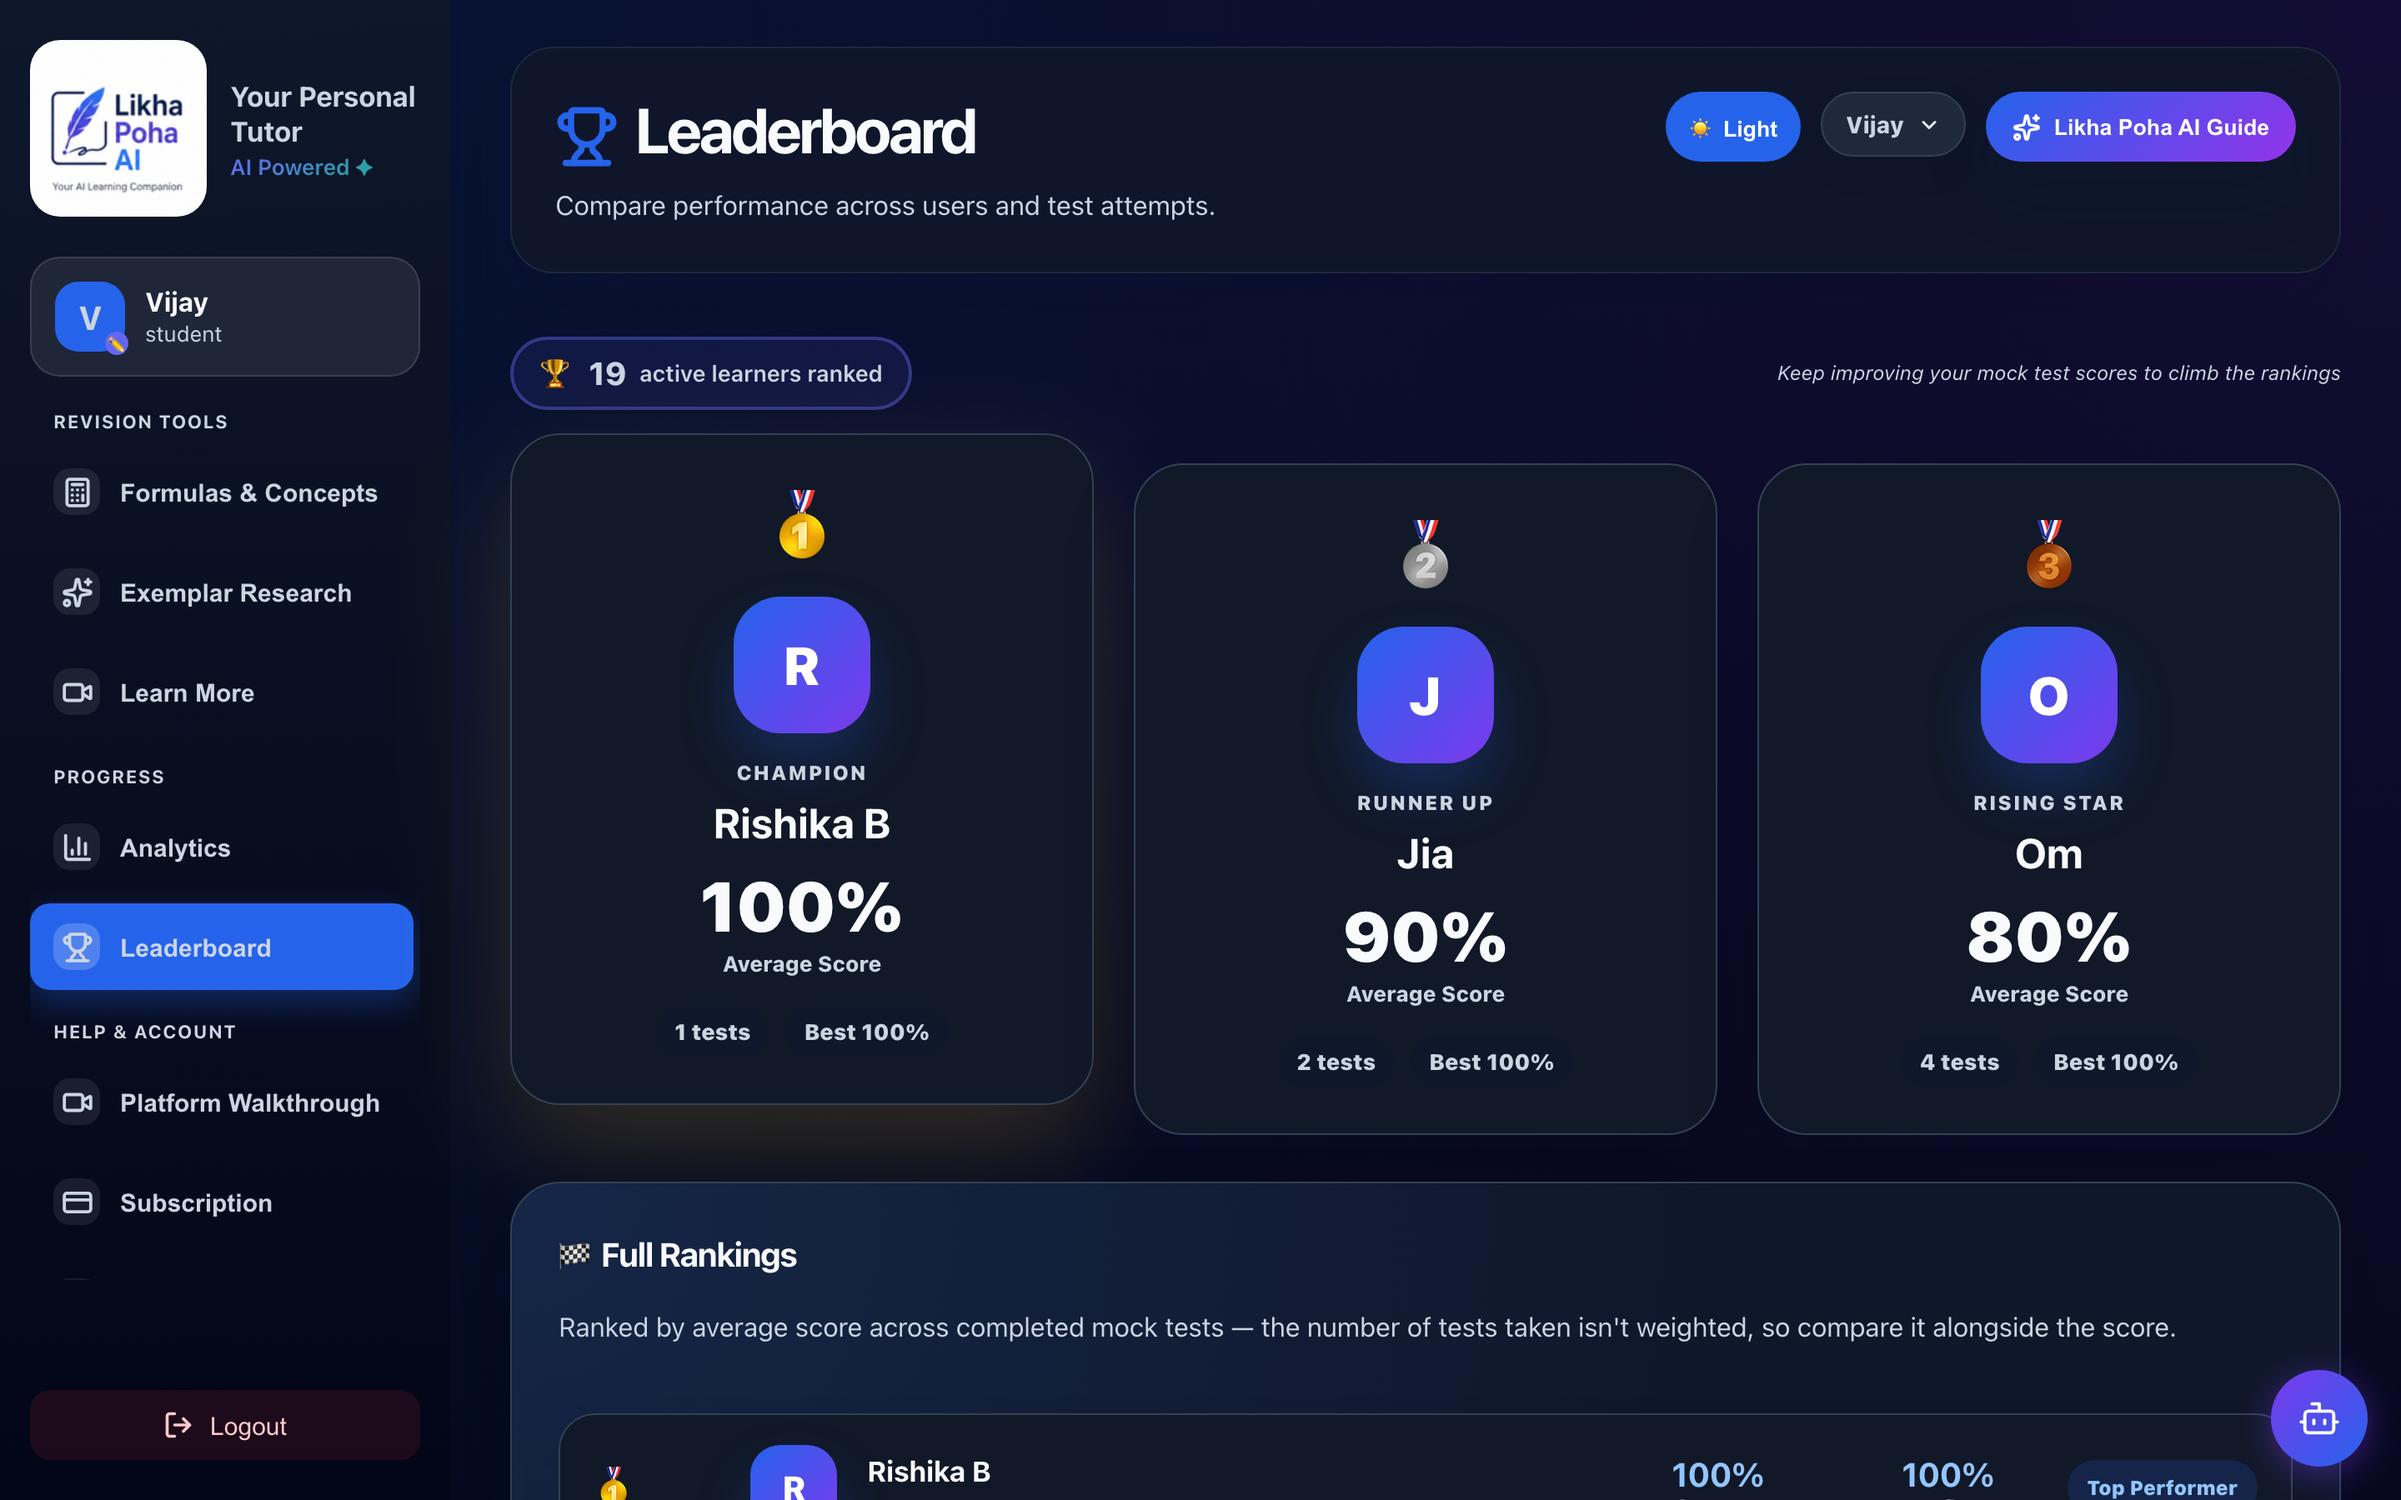
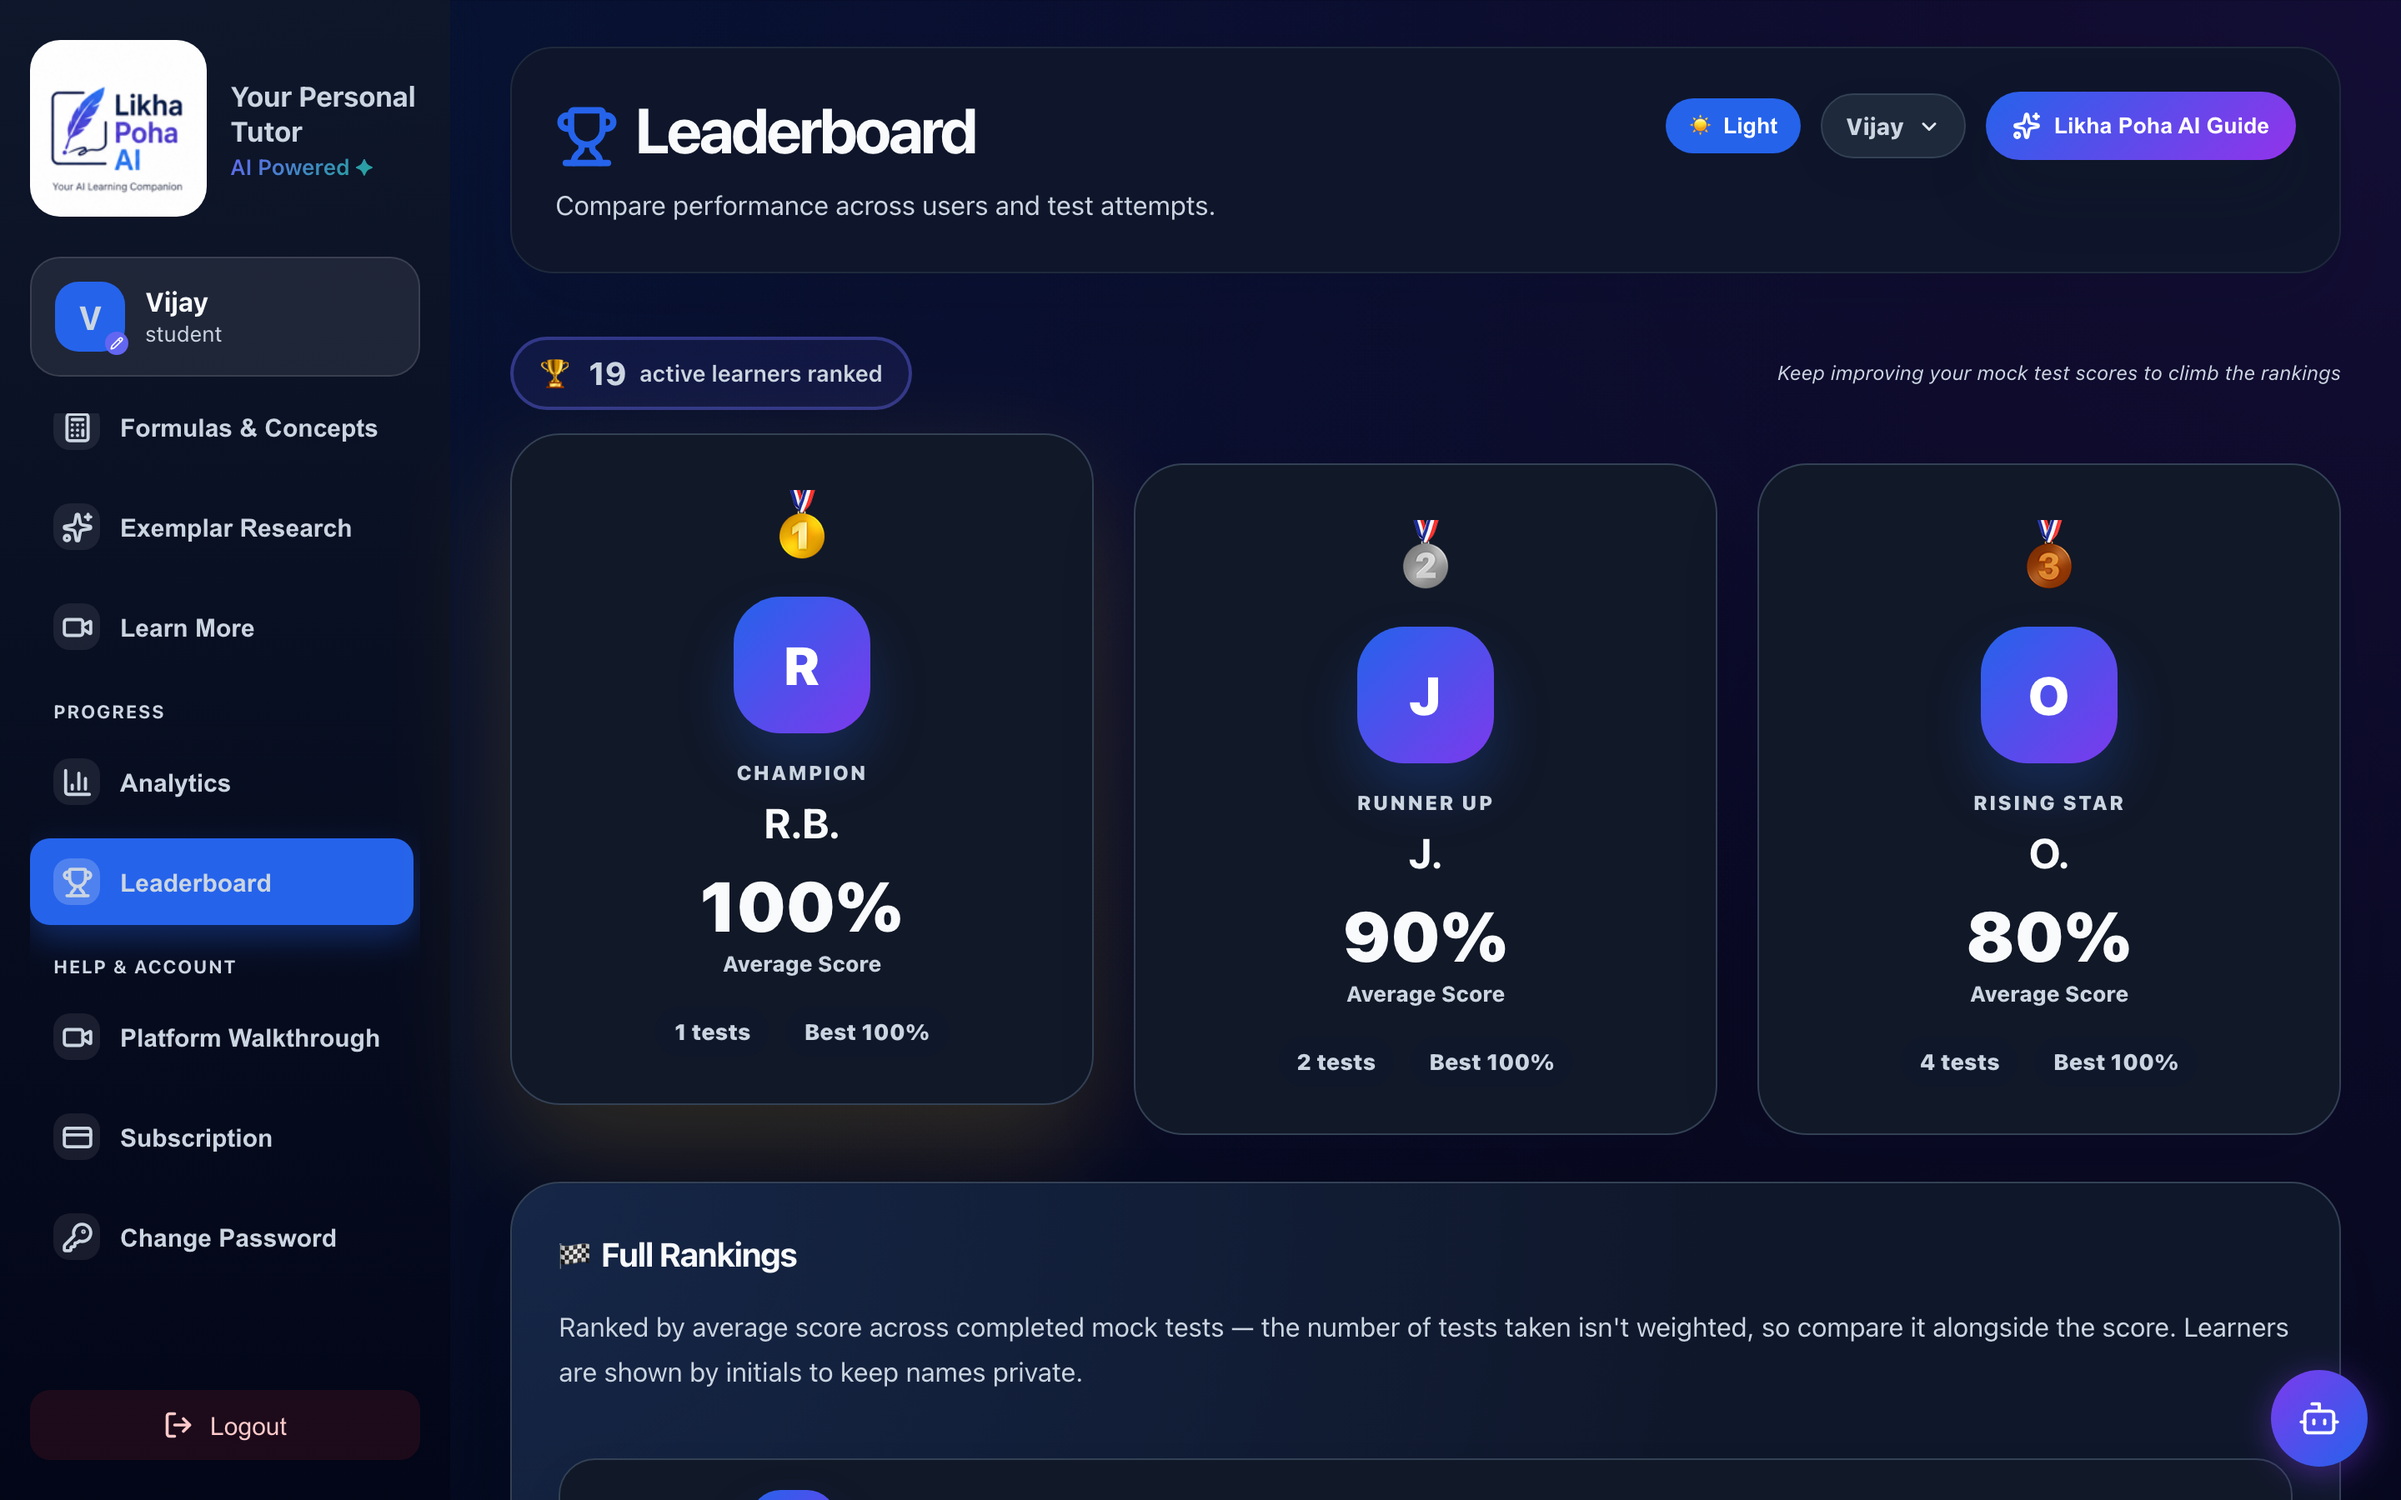
Update landing page pricing copy and refresh leaderboard screenshot
Spell out billing periods (/mo -> /month, /yr -> /year) in the
pricing table and FAQ, move the swipe hint above the table, and
replace the vague "hundreds of families" claim on the CTA section
with a concrete feature summary. Refresh the leaderboard screenshot.

diff --git a/frontend/src/pages/LandingPage.jsx b/frontend/src/pages/LandingPage.jsx
@@ -25,7 +25,7 @@ export default function LandingPage({ onShowLogin, onShowSignup }) {
   }, []);
   const faqs = [
     { q: "Which classes and boards are supported?", a: "LikhaPoha AI supports Grade 5 to Grade 12 for CBSE. Grade 5–10 covers Science, Maths, English, Social Science, and Hindi. Grade 11–12 adds Physics, Chemistry, Mathematics, Biology, Accountancy, Economics, and Business Studies — plus an Exam Prep Center for JEE Main, NEET UG, CUET UG, SAT, IELTS, and TOEFL iBT." },
-    { q: "What is the Exam Prep Center for Grade 11 & 12?", a: "The Exam Prep Center covers six exams: JEE Main, NEET UG, and CUET UG with an NTA-style simulator, curated MCQ question bank, subject-wise topic priorities, and simulated full-length tests with a floating countdown timer and question palette — exactly like the real exam interface. It also covers SAT, IELTS, and TOEFL iBT for students planning to study abroad, with exam-authentic practice for each format. Exam Prep Center is a separate ₹1,999/year plan for Grade 11–12 students — Premium and Family Premium do not include it, but Exam Prep Center in turn includes full CBSE Grade 11–12 lessons, doubts, and mock tests alongside all six exams." },
+    { q: "What is the Exam Prep Center for Grade 11 & 12?", a: "The Exam Prep Center covers six exams: JEE Main, NEET UG, and CUET UG with an NTA-style simulator, curated MCQ question bank, subject-wise topic priorities, and simulated full-length tests with a floating countdown timer and question palette — exactly like the real exam interface. It also covers SAT, IELTS, and TOEFL iBT for students planning to study abroad, with exam-authentic practice for each format. Exam Prep Center is a separate ₹1,999 / year plan for Grade 11–12 students — Premium and Family Premium do not include it, but Exam Prep Center in turn includes full CBSE Grade 11–12 lessons, doubts, and mock tests alongside all six exams." },
     { q: "Does the AI use real textbooks or make things up?", a: "Every lesson and doubt answer is grounded in uploaded NCERT textbooks using RAG technology. The AI cannot hallucinate chapter content — it is strictly textbook-aligned." },
     { q: "How many practice questions are available?", a: "LikhaPoha AI has 140,000+ practice questions covering all chapters from Grade 5 to Grade 12 across CBSE subjects — including question banks for JEE Main, NEET UG, CUET UG, SAT, IELTS, and TOEFL iBT for Grade 11 & 12." },
     { q: "Is there a mobile app?", a: "LikhaPoha AI is a mobile-first progressive web app. It works perfectly on any phone browser — no app download needed. Add it to your home screen for an app-like experience." },
@@ -241,7 +241,7 @@ export default function LandingPage({ onShowLogin, onShowSignup }) {
       </div></div>
       <div className="lp-ctasec">
         <h2>Start Your Child's AI Learning Journey Today</h2>
-        <p>Join hundreds of families already studying smarter with LikhaPoha AI</p>
+        <p>NCERT-grounded lessons, doubt solving any hour, and chapter-level progress for parents</p>
         <button className="lp-bc" onClick={() => handleCta("free")} style={{display:"inline-flex",alignItems:"center",gap:8}}><Zap size={18} strokeWidth={2.5}/> Try for Free</button>
         <p style={{marginTop:"16px",fontSize:".8rem",color:"#cbd5e1"}}>Free to start &middot; Upgrade anytime</p>
       </div>

diff --git a/frontend/src/components/NoticeboardPricingTable.jsx b/frontend/src/components/NoticeboardPricingTable.jsx
@@ -15,9 +15,9 @@ import "./NoticeboardPricingTable.css";
 
 export const NOTICEBOARD_PLANS = [
   { key: "free_tier",        name: "Free Tier",        price: "₹0",     period: "forever", note: "Get started",  color: "#64748b" },
-  { key: "starter",          name: "Premium",          price: "₹299",   period: "/ mo",     note: "Most popular", color: "#7c3aed", tag: "Popular" },
-  { key: "family_premium",   name: "Family Premium",   price: "₹499",   period: "/ mo",     note: "Up to 2 kids", color: "#10b981", tag: "Best value" },
-  { key: "exam_prep_center", name: "Exam Prep Center", price: "₹1,999", period: "/ yr",     note: "Gr 11–12 · JEE · NEET · CUET · SAT · IELTS · TOEFL", color: "#3b82f6", tag: "New" },
+  { key: "starter",          name: "Premium",          price: "₹299",   period: "/ month",     note: "Most popular", color: "#7c3aed", tag: "Popular" },
+  { key: "family_premium",   name: "Family Premium",   price: "₹499",   period: "/ month",     note: "Up to 2 kids", color: "#10b981", tag: "Best value" },
+  { key: "exam_prep_center", name: "Exam Prep Center", price: "₹1,999", period: "/ year",     note: "Gr 11–12 · JEE · NEET · CUET · SAT · IELTS · TOEFL", color: "#3b82f6", tag: "New" },
 ];
 
 export const NOTICEBOARD_GROUPS = [
@@ -114,6 +114,7 @@ export default function NoticeboardPricingTable({
           </button>
         ))}
       </div>
+      <p className="nbp-swipe-hint">&#8596; Swipe or tap a plan above to compare</p>
       <div className="nbp-wrap" ref={scrollRef}>
         <table className="nbp-table">
           <colgroup><col className="nbp-feature-col" />{plans.map(p => <col key={p.key} />)}</colgroup>
@@ -147,11 +148,10 @@ export default function NoticeboardPricingTable({
           </tbody>
         </table>
       </div>
-      <p className="nbp-swipe-hint">&#8596; Swipe or tap a plan above to compare</p>
       <div className="nbp-footnote">
         <span>✓ marked present &nbsp;&nbsp; ✗ marked absent</span>
         {footnote !== undefined ? footnote : (
-          <span>Prices in INR &middot; Family Premium fits 2 children &middot; Exam Prep Center (&#8377;1,999/yr) is a Grade 11&ndash;12 only add&#8209;on covering JEE, NEET, CUET, SAT, IELTS & TOEFL</span>
+          <span>Prices in INR &middot; Family Premium fits 2 children &middot; Exam Prep Center (&#8377;1,999 / year) is a Grade 11&ndash;12 only add&#8209;on covering JEE, NEET, CUET, SAT, IELTS & TOEFL</span>
         )}
       </div>
       {showCta && (
